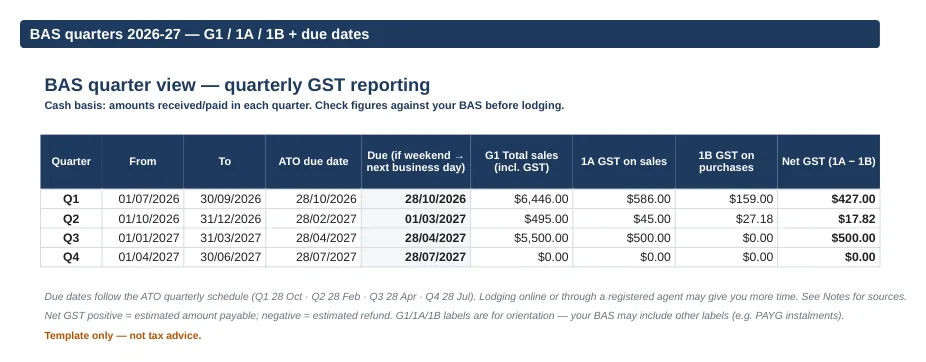
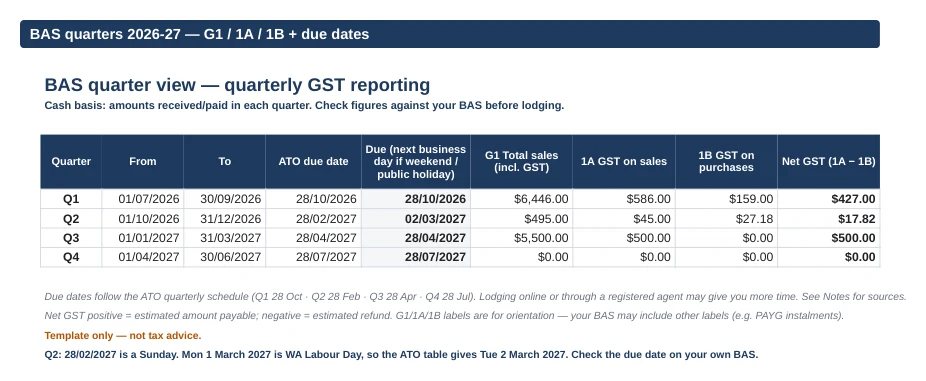
templates: tracker BAS quarters image Q2 due Tue 02/03/2027 + due-date wording

diff --git a/templates/index.html b/templates/index.html
@@ -95,7 +95,7 @@
       <a class="btn btn-go" href="https://buy.stripe.com/aFa5kD73kan0b6Pd2R2B203"><svg class="i" aria-hidden="true"><use href="#i-down"/></svg>Buy the tracker, A$12</a></div>
     <p class="micro" style="margin-top:10px">Instant download · 14-day refund · Example shown with a 25% set-aside. The file starts at 0% so you choose your own.</p>
     <details class="inc"><summary>What's included</summary>
-      <ul class="ticks"><li><svg class="i" aria-hidden="true"><use href="#i-check"/></svg><span><strong>Excel / Google Sheets workbook (.xlsx)</strong> for FY 2026-27. Reusable: change the start date.</span></li><li><svg class="i" aria-hidden="true"><use href="#i-check"/></svg><span><strong>Income log</strong> (500 rows): GST portion (1/11) worked out when you're registered, income ex GST, set-aside amount and FY quarter.</span></li><li><svg class="i" aria-hidden="true"><use href="#i-check"/></svg><span><strong>Expense log</strong> (500 rows): category drop-down you can edit, GST portion, ex-GST amount.</span></li><li><svg class="i" aria-hidden="true"><use href="#i-check"/></svg><span><strong>Monthly summary</strong>: income, GST collected, expenses, GST paid, profit, to set aside, actually saved, gap and running savings balance.</span></li><li><svg class="i" aria-hidden="true"><use href="#i-check"/></svg><span><strong>Set-aside % you choose</strong> (the file starts at 0%). It's a savings tool. It doesn't calculate income tax or suggest a rate.</span></li><li><svg class="i" aria-hidden="true"><use href="#i-check"/></svg><span><strong>BAS quarter view</strong> (GST-registered): G1, 1A, 1B and net GST per quarter on a cash basis, plus ATO quarterly due dates for 2026-27, moved off weekends.</span></li><li><svg class="i" aria-hidden="true"><use href="#i-check"/></svg><span><strong>GST off mode</strong> for sole traders who aren't registered. Notes tab citing ato.gov.au sources. 1-page How-to-use PDF.</span></li></ul><p class="formats"><strong>Formats:</strong> XLSX (Excel 2016+ / Google Sheets), PDF.</p><p class="notfor"><strong>Not for:</strong> anyone using accounting software that already does BAS; monthly or annual GST reporters (the BAS tab is quarterly); businesses reporting GST on an accruals basis (the BAS view is cash basis); payroll.</p><figure><img src="/templates/img/tracker-bas-quarters.webp" width="926" height="362" loading="lazy" decoding="async" alt="BAS quarter view listing G1 total sales, 1A GST on sales, 1B GST on purchases and net GST for each 2026-27 quarter, with due dates."><figcaption>BAS quarter view (cash basis), filled in with example figures.</figcaption></figure>
+      <ul class="ticks"><li><svg class="i" aria-hidden="true"><use href="#i-check"/></svg><span><strong>Excel / Google Sheets workbook (.xlsx)</strong> for FY 2026-27. Reusable: change the start date.</span></li><li><svg class="i" aria-hidden="true"><use href="#i-check"/></svg><span><strong>Income log</strong> (500 rows): GST portion (1/11) worked out when you're registered, income ex GST, set-aside amount and FY quarter.</span></li><li><svg class="i" aria-hidden="true"><use href="#i-check"/></svg><span><strong>Expense log</strong> (500 rows): category drop-down you can edit, GST portion, ex-GST amount.</span></li><li><svg class="i" aria-hidden="true"><use href="#i-check"/></svg><span><strong>Monthly summary</strong>: income, GST collected, expenses, GST paid, profit, to set aside, actually saved, gap and running savings balance.</span></li><li><svg class="i" aria-hidden="true"><use href="#i-check"/></svg><span><strong>Set-aside % you choose</strong> (the file starts at 0%). It's a savings tool. It doesn't calculate income tax or suggest a rate.</span></li><li><svg class="i" aria-hidden="true"><use href="#i-check"/></svg><span><strong>BAS quarter view</strong> (GST-registered): G1, 1A, 1B and net GST per quarter on a cash basis, plus ATO quarterly due dates for 2026-27, moved to the next business day after weekends and public holidays.</span></li><li><svg class="i" aria-hidden="true"><use href="#i-check"/></svg><span><strong>GST off mode</strong> for sole traders who aren't registered. Notes tab citing ato.gov.au sources. 1-page How-to-use PDF.</span></li></ul><p class="formats"><strong>Formats:</strong> XLSX (Excel 2016+ / Google Sheets), PDF.</p><p class="notfor"><strong>Not for:</strong> anyone using accounting software that already does BAS; monthly or annual GST reporters (the BAS tab is quarterly); businesses reporting GST on an accruals basis (the BAS view is cash basis); payroll.</p><figure><img src="/templates/img/tracker-bas-quarters.webp" width="926" height="381" loading="lazy" decoding="async" alt="BAS quarter view listing G1 total sales, 1A GST on sales, 1B GST on purchases and net GST for each 2026-27 quarter, with due dates."><figcaption>BAS quarter view (cash basis), filled in with example figures.</figcaption></figure>
     </details>
   </div>
 </article>
